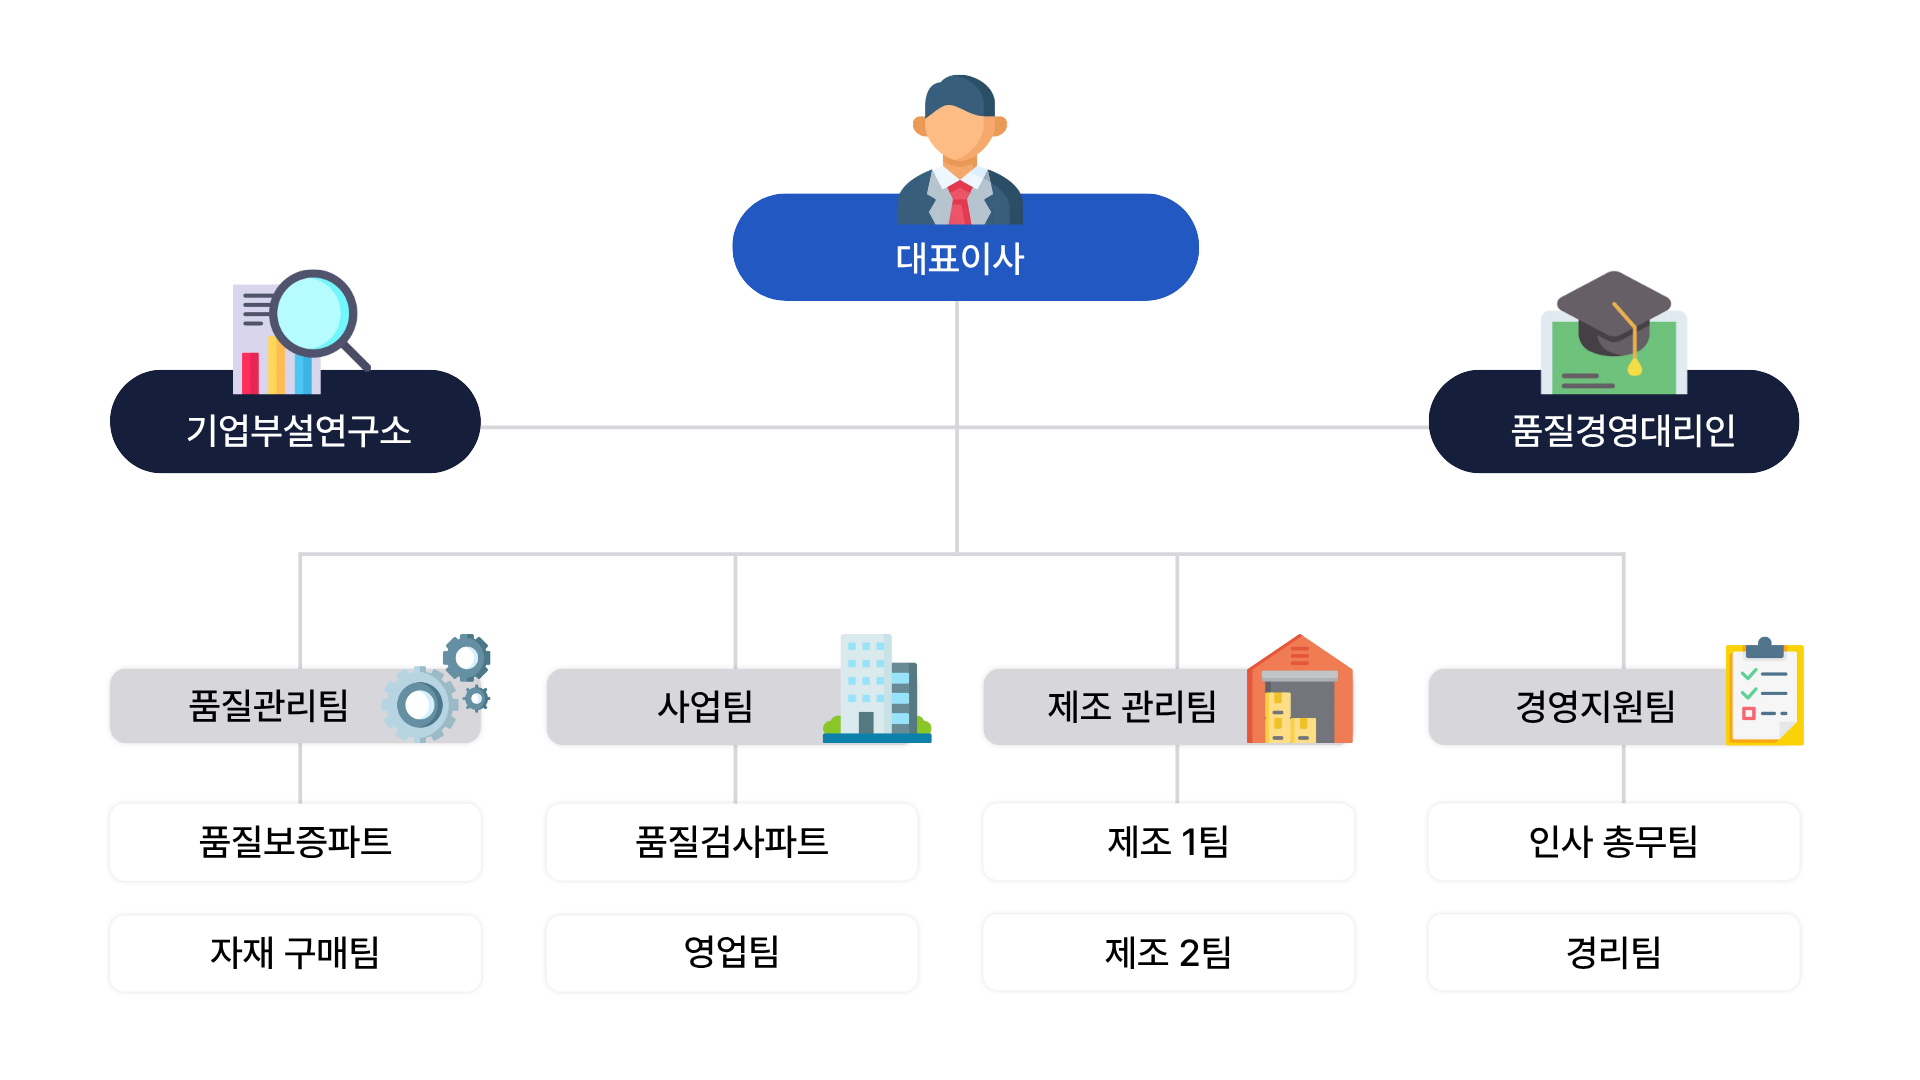
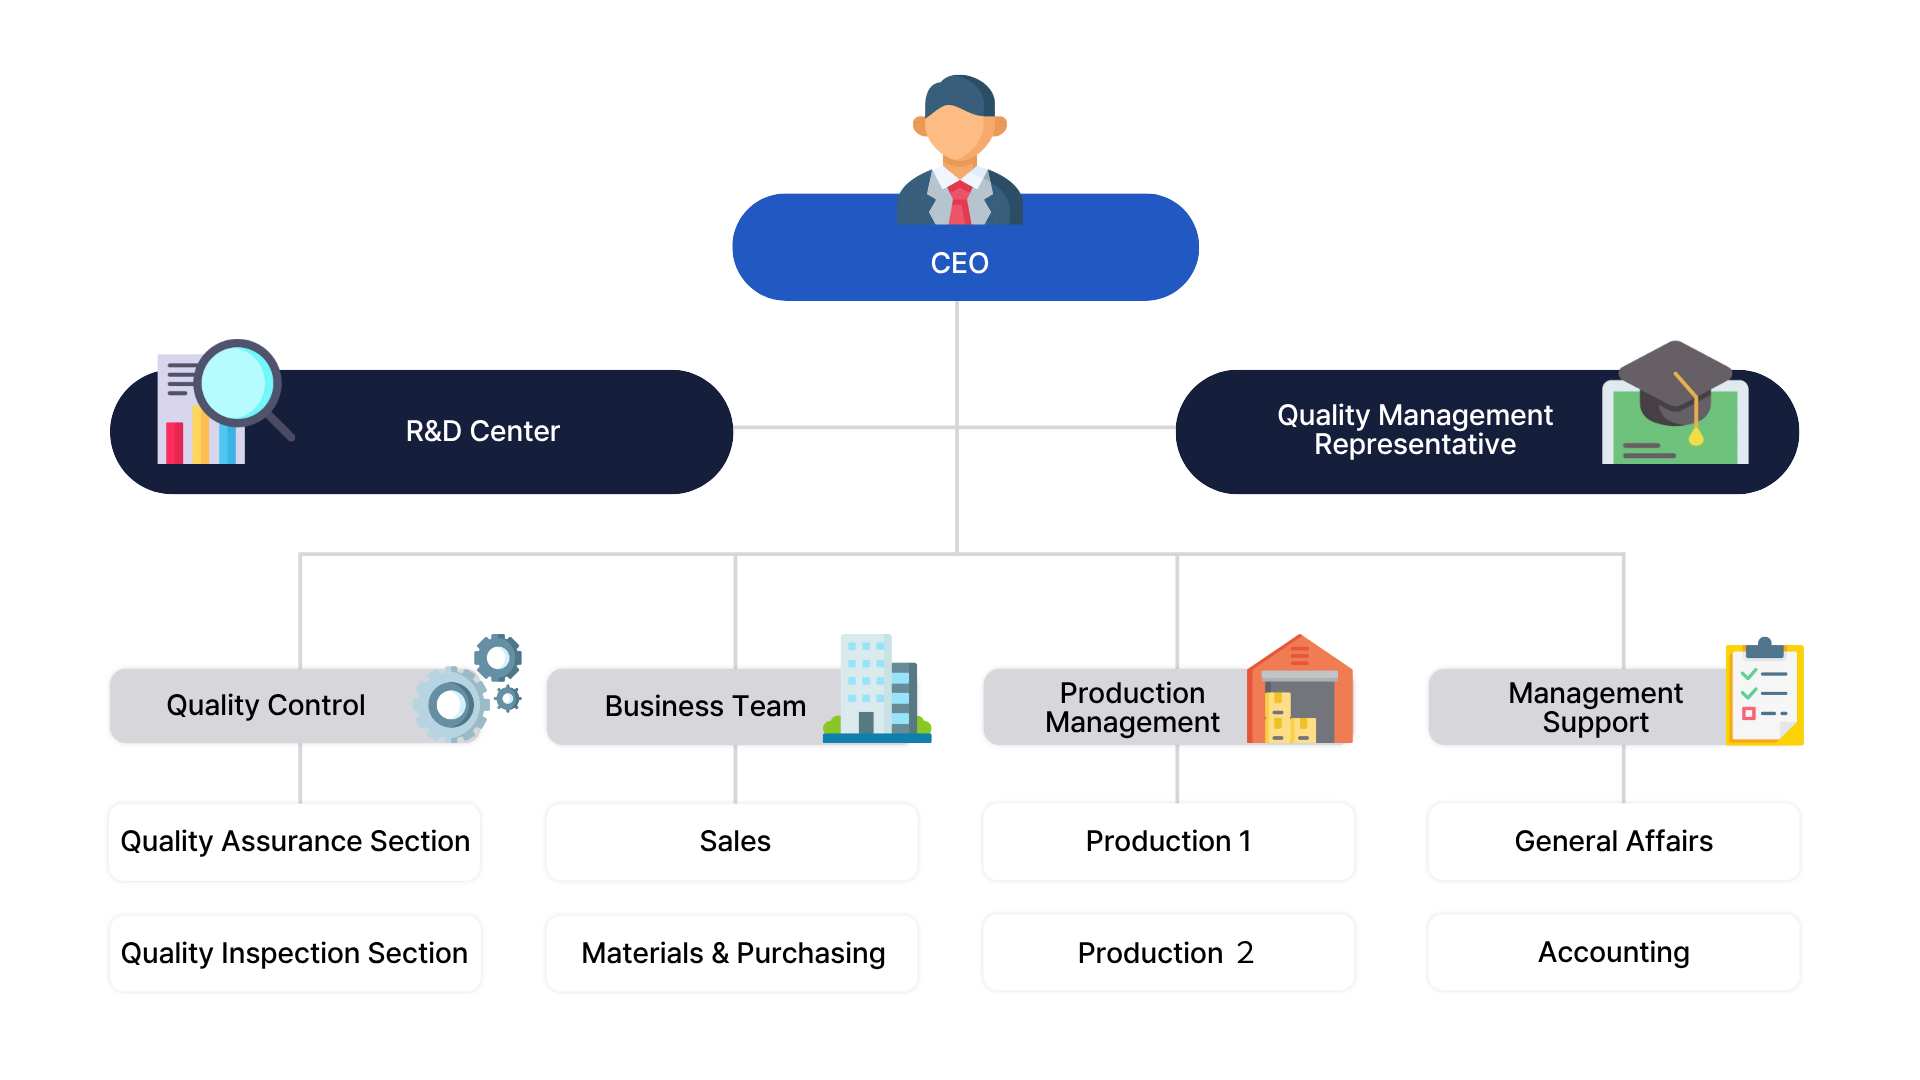
fix: cache busting on CSS link + spacing on satellite + org chart
- HTML: append ?v=20260507 to css/style.css references on all pages so deploys invalidate stale cached CSS
- satellite.html: increase .sat-block padding (48 44 → 56 48) and margin-bottom (36 → 72) for clearer section separation
- org chart: replace org-ko.png with corrected Korean version

diff --git a/pages/philosophy.html b/pages/philosophy.html
@@ -6,7 +6,7 @@
 <title>경영 이념 &amp; 목표 | 에스엠테크㈜</title>
 <meta name="description" content="에스엠테크㈜의 경영 이념과 경영 목표 — 최고의 기술과 완벽한 품질, 미래를 향한 도전과 기회 창출, 윤리의식 준수와 함께하는 행동.">
 <link rel="icon" href="../img/logo.png">
-<link rel="stylesheet" href="../css/style.css">
+<link rel="stylesheet" href="../css/style.css?v=20260507">
 </head>
 <body>
 

diff --git a/pages/organization.html b/pages/organization.html
@@ -6,7 +6,7 @@
 <title>조직도 | 에스엠테크㈜</title>
 <meta name="description" content="에스엠테크㈜ 조직도 — 대표이사 산하 기업부설연구소, 품질경영대리인, 경영지원팀, 사업팀, 제조관리팀, 품질관리팀.">
 <link rel="icon" href="../img/logo.png">
-<link rel="stylesheet" href="../css/style.css">
+<link rel="stylesheet" href="../css/style.css?v=20260507">
 </head>
 <body>
 

diff --git a/pages/greeting.html b/pages/greeting.html
@@ -6,7 +6,7 @@
 <title>CEO 인사말 | 에스엠테크㈜</title>
 <meta name="description" content="에스엠테크㈜ 대표이사 인사말. 1998년 설립 이래 방위·항공·위성 분야 정밀가공 전문기업으로 성장해 왔습니다.">
 <link rel="icon" href="../img/logo.png">
-<link rel="stylesheet" href="../css/style.css">
+<link rel="stylesheet" href="../css/style.css?v=20260507">
 </head>
 <body>
 

diff --git a/pages/certifications.html b/pages/certifications.html
@@ -6,7 +6,7 @@
 <title>주요 인증 현황 | 에스엠테크㈜</title>
 <meta name="description" content="에스엠테크㈜ 보유 인증 — AS9100D, ISO 9001/14001, 특수공정 승인, 기술혁신형중소기업 등.">
 <link rel="icon" href="../img/logo.png">
-<link rel="stylesheet" href="../css/style.css">
+<link rel="stylesheet" href="../css/style.css?v=20260507">
 </head>
 <body>
 

diff --git a/pages/location.html b/pages/location.html
@@ -6,7 +6,7 @@
 <title>오시는 길 | 에스엠테크㈜</title>
 <meta name="description" content="에스엠테크㈜ 본사 위치 — 경상북도 칠곡군 약목면 무림4길 51. TEL 054-977-9113~4, smtec@smtec.or.kr">
 <link rel="icon" href="../img/logo.png">
-<link rel="stylesheet" href="../css/style.css">
+<link rel="stylesheet" href="../css/style.css?v=20260507">
 </head>
 <body>
 

diff --git a/admin/login.html b/admin/login.html
@@ -6,7 +6,7 @@
 <meta name="robots" content="noindex,nofollow">
 <title>관리자 로그인 | SM TECH</title>
 <link rel="icon" href="../img/logo.png">
-<link rel="stylesheet" href="../css/style.css">
+<link rel="stylesheet" href="../css/style.css?v=20260507">
 <style>
   body { display:flex; align-items:center; justify-content:center; min-height:100vh; padding:24px; }
   .login-card{

diff --git a/admin/dashboard.html b/admin/dashboard.html
@@ -6,7 +6,7 @@
 <meta name="robots" content="noindex,nofollow">
 <title>관리자 대시보드 | SM TECH</title>
 <link rel="icon" href="../img/logo.png">
-<link rel="stylesheet" href="../css/style.css">
+<link rel="stylesheet" href="../css/style.css?v=20260507">
 <style>
   body { padding-top: 0; }
   .admin-shell{ display:grid; grid-template-columns: 240px 1fr; min-height:100vh; }

diff --git a/pages/notices.html b/pages/notices.html
@@ -5,7 +5,7 @@
 <meta name="viewport" content="width=device-width, initial-scale=1">
 <title>공지사항 | SM TECH</title>
 <link rel="icon" href="../img/logo.png">
-<link rel="stylesheet" href="../css/style.css">
+<link rel="stylesheet" href="../css/style.css?v=20260507">
 <style>
   .board-toolbar{
     display:flex; align-items:center; justify-content:space-between;

diff --git a/pages/history.html b/pages/history.html
@@ -6,7 +6,7 @@
 <title>회사 연혁 | 에스엠테크㈜</title>
 <meta name="description" content="에스엠테크㈜ 1998년 설립 이후 주요 연혁과 위성·방산 사업 참여 이력.">
 <link rel="icon" href="../img/logo.png">
-<link rel="stylesheet" href="../css/style.css">
+<link rel="stylesheet" href="../css/style.css?v=20260507">
 </head>
 <body>
 

diff --git a/pages/clients.html b/pages/clients.html
@@ -5,7 +5,7 @@
 <meta name="viewport" content="width=device-width, initial-scale=1">
 <title>주요 고객사 | SM TECH</title>
 <link rel="icon" href="../img/logo.png">
-<link rel="stylesheet" href="../css/style.css">
+<link rel="stylesheet" href="../css/style.css?v=20260507">
 </head>
 <body>
 <div class="grid-bg"></div>

diff --git a/pages/aerospace.html b/pages/aerospace.html
@@ -5,7 +5,7 @@
 <meta name="viewport" content="width=device-width, initial-scale=1">
 <title>항공/기타 | SM TECH</title>
 <link rel="icon" href="../img/logo.png">
-<link rel="stylesheet" href="../css/style.css">
+<link rel="stylesheet" href="../css/style.css?v=20260507">
 </head>
 <body>
 <div class="grid-bg"></div>

diff --git a/pages/equipment.html b/pages/equipment.html
@@ -5,7 +5,7 @@
 <meta name="viewport" content="width=device-width, initial-scale=1">
 <title>설비 현황 | SM TECH</title>
 <link rel="icon" href="../img/logo.png">
-<link rel="stylesheet" href="../css/style.css">
+<link rel="stylesheet" href="../css/style.css?v=20260507">
 </head>
 <body>
 <div class="grid-bg"></div>
